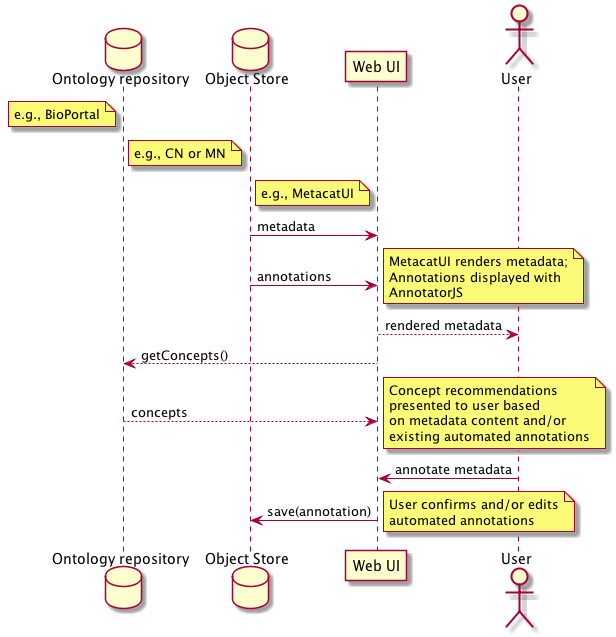
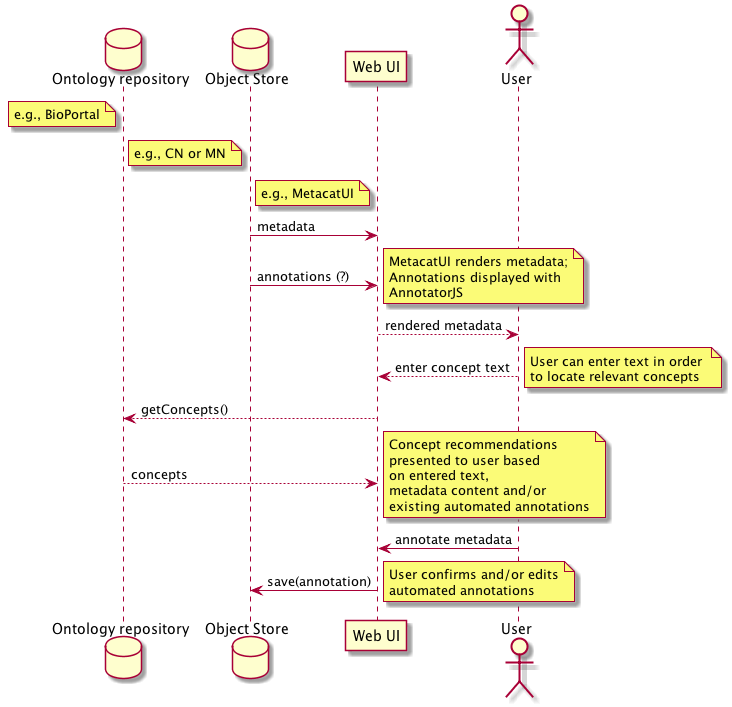
incorporate feedback from Xixi about updating the index and gathering user input when locating concepts from an ontology repo.

diff --git a/docs/use-cases/semantics/use-case-51.rst b/docs/use-cases/semantics/use-case-51.rst
@@ -42,7 +42,7 @@ Sequence Diagram
 		
 			  
 	  store -> webui: metadata
-	  store -> webui: annotations
+	  store -> webui: annotations (?)
 	  note right
 	  	MetacatUI renders metadata;
 	  	Annotations displayed with
@@ -50,12 +50,19 @@ Sequence Diagram
 	  end note
 	  webui --> user: rendered metadata
 	  
+	  user --> webui: enter concept text
+	  note right
+	  	User can enter text in order 
+	  	to locate relevant concepts
+	  end note
+	  
 	  webui --> ontrepo: getConcepts()
 	  ontrepo --> webui: concepts
 	  note right
 	  	Concept recommendations
 	  	presented to user based 
-	  	on metadata content and/or
+	  	on entered text, 
+	  	metadata content and/or
 	  	existing automated annotations
 	  end note
 	  user -> webui: annotate metadata

diff --git a/docs/use-cases/semantics/use-case-53.rst b/docs/use-cases/semantics/use-case-53.rst
@@ -72,10 +72,11 @@ Postconditions
 --------------
 * The updated annotations are stored on the Coordinating Node.
 * The annotations are marked as being rejected by the owner as applicable
+* Index is updated to reflect the change in status of the annotation
 
 Notes
 -----
-This is a simplified approach to our intitial "confirm or refute annotation" plan. Until explicitly marked as incorrect,
+This is a simplified approach to our initial "confirm or refute annotation" plan. Until explicitly marked as incorrect,
 all current annotations will be used to populate the search index for discovery. Ultimately, the owner of the original data package
 has the final say in what is correct when it comes to annotations in the system.
 

diff --git a/docs/use-cases/semantics/use-case-50.rst b/docs/use-cases/semantics/use-case-50.rst
@@ -90,6 +90,7 @@ Postconditions
 * The generated annotations are stored on the Coordinating Node.
 * The annotations are marked as being created by the automatic process.
 * The annotations share the same permissions as the metadata upon which they are based (editable by the original document owner).
+* Index is updated to reflect the new annotation
 
 Notes
 -----
